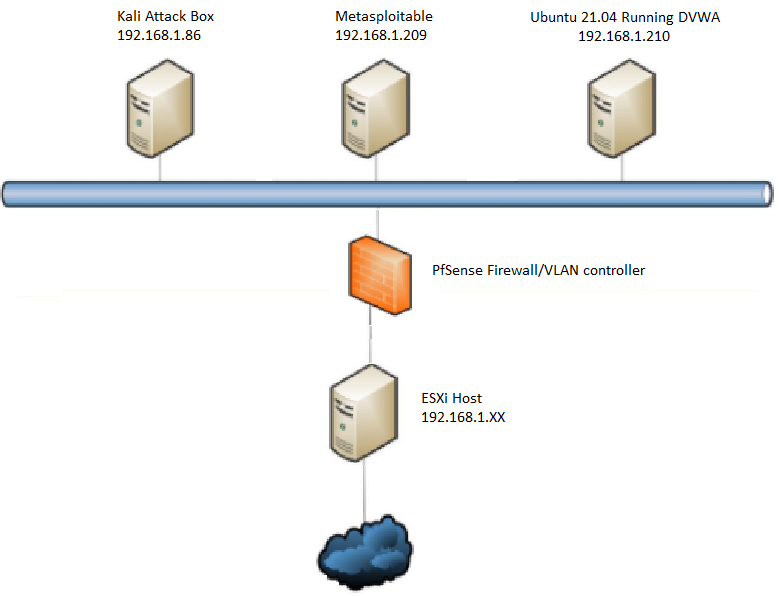
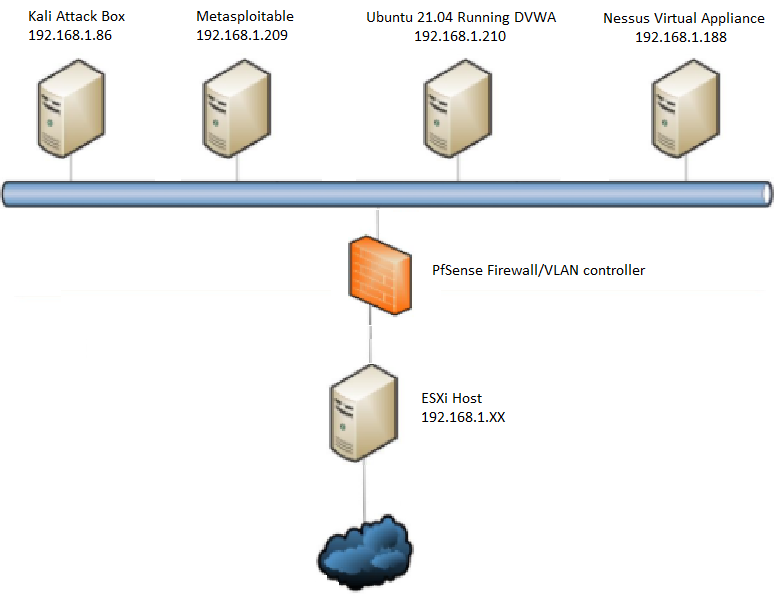
cleanup and start nessus

Changed region(s): [[0.4313, 0.0, 0.9859, 0.2718], [0.0308, 0.0, 0.3697, 0.2718]]

diff --git a/README.md b/README.md
@@ -24,17 +24,17 @@
 
 
 
-| target                                                       | target2                                        | kali                                |
-| ------------------------------------------------------------ | ---------------------------------------------- | ----------------------------------- |
-| [Metasploitable](https://information.rapid7.com/download-metasploitable-2017.html) | [Damn Vulnerable Web App](https://dvwa.co.uk/) | [Kali Linux](https://www.kali.org/) |
-| 192.168.1.209                                                | 192.168.1.210                                  | 192.168.1.86                        |
-| msfadmin:msfadmin                                            | dvwa:dvwa                                      | kali:kali                           |
+| target                                                       | target2                                        | kali                                | nessus                                                       |
+| ------------------------------------------------------------ | ---------------------------------------------- | ----------------------------------- | ------------------------------------------------------------ |
+| [Metasploitable](https://information.rapid7.com/download-metasploitable-2017.html) | [Damn Vulnerable Web App](https://dvwa.co.uk/) | [Kali Linux](https://www.kali.org/) | [Nessus Virtual Appliance](https://www.tenable.com/downloads/tenable-appliance?loginAttempted=true) |
+| 192.168.1.209                                                | 192.168.1.210                                  | 192.168.1.86                        | 192.168.1.188                                                |
+| msfadmin:msfadmin                                            | dvwa:dvwa                                      | kali:kali                           | ---------------------------                                  |
 
 
 
 #### II. Target 1: Metasploitable
 
-	This machine is an imported Virtual Machine imported  into ESXi of [Metasploitable](https://information.rapid7.com/download-metasploitable-2017.html).  It is an intentionally vulnerable Linux machine designed for Penetration Testing.  The goal for this target will be to explore some of the more interesting vulnerabilities (because FTP and Samba are too easy to break).
+	This machine is an imported Virtual Machine imported  into ESXi of [Metasploitable](https://information.rapid7.com/download-metasploitable-2017.html).  Metasploitable is an intentionally vulnerable Linux machine designed for Penetration Testing.  The goal for this target will be to explore some of the more interesting vulnerabilities (because FTP and Samba are too easy to break).
 
  
 
@@ -174,23 +174,9 @@ Success!  We have admin credentials!
 
 ![enumsetup](https://github.com/jjay1288/netattacksproj/blob/main/target/screens/ssh.PNG)
 
-##### D) Persistence
+##### D) Conclusion
 
-	Now that we are connected to our machine with root access, we will attempt to add a new root user to give us our own root account on the machine.  We will use the following code:
-
-```bash
-useradd -u0 -g0 -o -s /bin/bash -p `pwnd' pwnd
-```
-
-	This will add a new root user with the credentials pwnd:pwnd.
-
-
-
-
-
-
-
-
+	This machine was understandably riddled with attack vectors.  Some of the key takeaways are the importance of updating software and services on important systems.  Most of the exploits found on this server are due specifically to outdated and unpatched software.  This specific system is probably too far gone however.  The distribution is way out of date, and the ability to connect to ubuntu repositories has been intentionally disabled.
 
 
 
@@ -198,7 +184,9 @@ useradd -u0 -g0 -o -s /bin/bash -p `pwnd' pwnd
 
 #### III. Target 2: Damn Vulnerable Web Application (DVWA)
 
-	This machine is running the latest Ubuntu (21.04), and has had [Damn Vulnerable Web App](https://dvwa.co.uk/) installed in its default configuration.  
+	This machine is running the latest Ubuntu (21.04), and has had [Damn Vulnerable Web App](https://dvwa.co.uk/) installed in its default configuration.  DVWA is an intentionally vulnerable web stack that has built in attack vectors.
+
+
 
 ##### A) Enumeration
 
@@ -323,11 +311,21 @@ I guess this Brute Force section would have been much easier to exploit.
 
 ##### C. Obtaining a reverse shell
 
-	After testing the form, we find that you can enter an IP address and then follow it with a semicolon to execute shell commands on the target. We will start up Metasploit and set up our attack. We will get setup to use the [web_delivery](https://www.offensive-security.com/metasploit-unleashed/web-delivery/) module withing msf
+	To obtain a shell, we will use the "Command Injection" sub-page in DVWA.
+
+![shell](https://github.com/jjay1288/netattacksproj/blob/main/target2/screens/commandinjectpage.PNG)
+
+	After doing some testing the form, we find that you can enter an IP address and then follow it with a semicolon to execute shell commands on the target. 
+
+![shell](https://github.com/jjay1288/netattacksproj/blob/main/target2/screens/poc.PNG)
+
+We will start up Metasploit and set up our attack. We will use the [web_delivery](https://www.offensive-security.com/metasploit-unleashed/web-delivery/) module within msfconsole.  
 
 ![msf](https://github.com/jjay1288/netattacksproj/blob/main/target2/screens/msfsetup.PNG)
 
 Then we copy the command at the bottom and submit to get our reverse shell!
+
+![shell](https://github.com/jjay1288/netattacksproj/blob/main/target2/screens/inject.PNG)
 
 ![shell](https://github.com/jjay1288/netattacksproj/blob/main/target2/screens/shell.PNG)
 
@@ -353,4 +351,10 @@ Then we copy the command at the bottom and submit to get our reverse shell!
 
 ##### E. Conclusion
 
-Importance of secure passwords even in up to date systems
+	One point that stood out prominently to me is the fact that a secure password is very important, even with other somewhat strong security measures.  The initial login page was not using the best security policies in the world; it could have locked me out after the initial work with burp suite.  However, because the root password was the same string as the username, and reasonable attacker would have access in a negligible amount of time.
+
+
+
+#### IV. Nessus Examination
+
+	Finally, we will use the  [Nessus Virtual Appliance](https://www.tenable.com/downloads/tenable-appliance?loginAttempted=true) to examine the machines.  Nessus is a vulnerability scanner that allows network administrators to easily identify critical vulnerabilities in their networks.  
